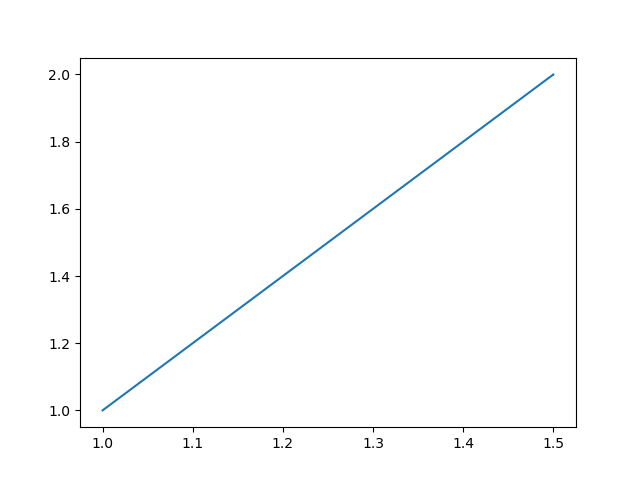
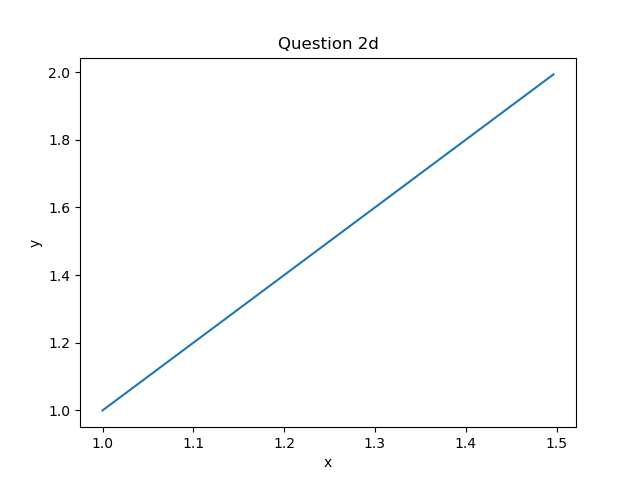
2d

diff --git a/Odeint system ODE solver.py b/Odeint system ODE solver.py
@@ -4,10 +4,10 @@ from scipy.integrate import odeint #Using the simple ODE solver
 import matplotlib.pyplot as plt
 
 #parameter values
-a = 5
-b = 2
-c = -17
-d = -5
+a = 4
+b = -3
+c = 8
+d = -6
 
 
 #Define System of ODEs
@@ -38,6 +38,6 @@ print(eigen[0])
 plt.plot(x,y)
 plt.xlabel("x")
 plt.ylabel("y")
-plt.title("Question 2c")
+plt.title("Question 2d")
 plt.show()
 

diff --git a/Variation in predator-prey model.py b/Variation in predator-prey model.py
@@ -33,6 +33,8 @@ z = odeint(predprey, z0, t)
 x = z[:,0]
 y = z[:,1]
 
+
+
 #Plotting the solution
 
 plt.subplot(2, 1, 1)
